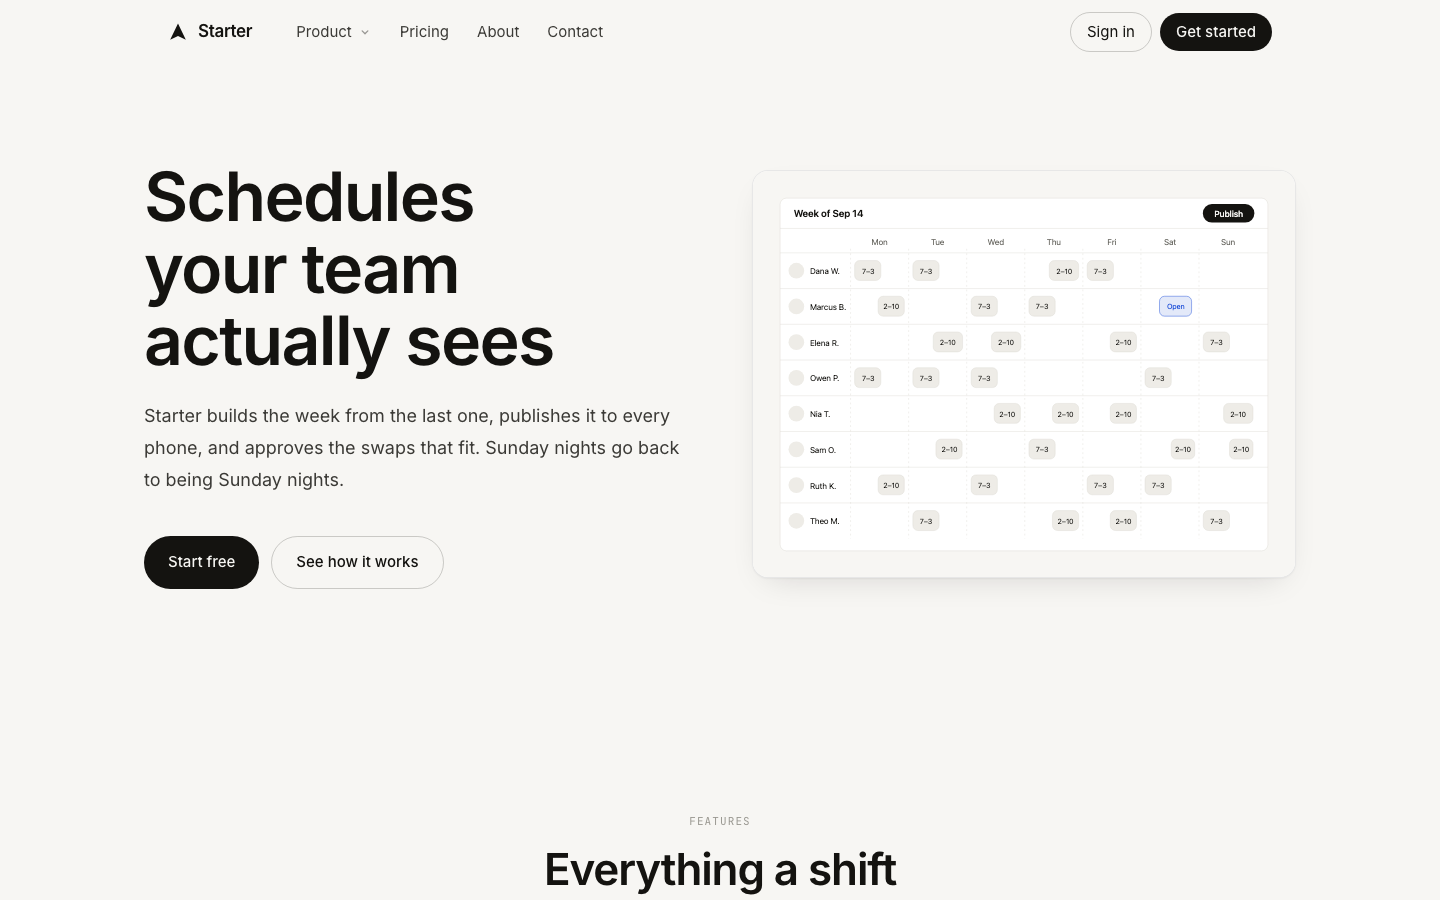
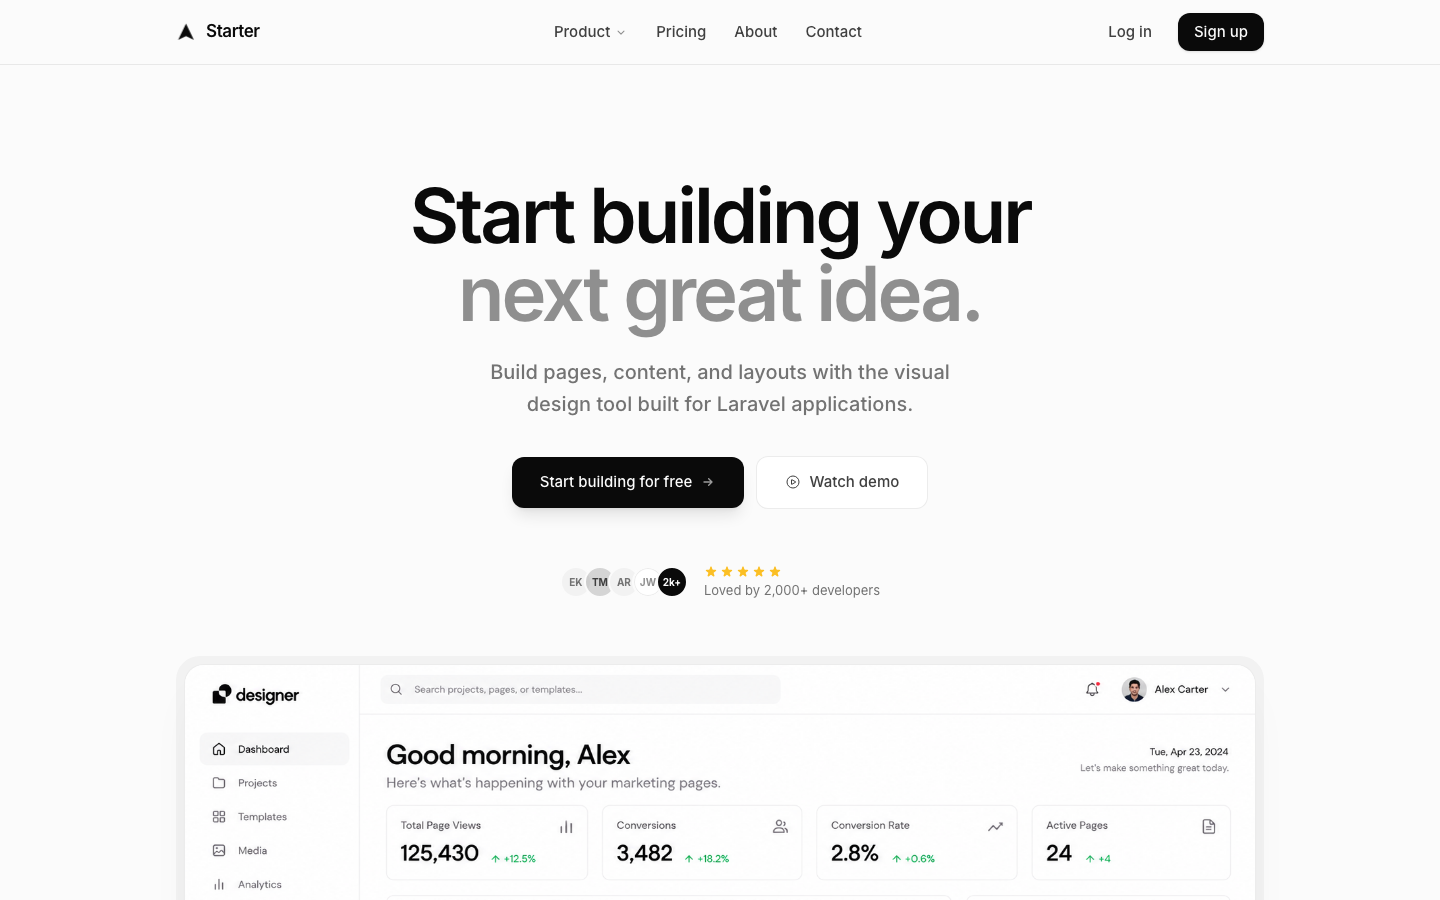
latest

diff --git a/files/public/js/main.js b/files/public/js/main.js
@@ -89,7 +89,7 @@ function mobileMenu() {
     window.matchMedia('(min-width: 64rem)').addEventListener('change', function (e) { if (e.matches) set(false); });
 }
 
-/* The announcement banner (sections/banner.blade.php, above the header in the layout): the dismiss button hides it for this visit. */
+/* The announcement banner (sections/banner.blade.php, wherever it is placed): the dismiss button hides it for this visit. */
 function banners() {
     document.querySelectorAll('[data-banner]').forEach(function (banner) {
         var button = banner.querySelector('[data-banner-dismiss]');

diff --git a/files/resources/views/components/sections/hero-03.blade.php b/files/resources/views/components/sections/hero-03.blade.php
@@ -1,113 +1,123 @@
 @props([
-    'eyebrow' => 'Uptime monitoring',
-    'heading' => 'Find out before your customers do',
-    'text' => 'Vessel checks every endpoint from 14 US cities every 30 seconds, pages whoever is on call, and keeps a status page your customers can trust.',
-    'buttonText' => 'Start monitoring free',
+    'showBadge' => '1',
+    'badgeText' => 'Now with retainers and deposits',
+    'heading' => 'Run the studio, not the spreadsheet',
+    'text' => 'Hollen keeps every project, hour and invoice for a design studio in one place, so Friday is for the work and not the books.',
+    'buttonText' => 'Start free',
     'buttonLink' => '/signup',
-    'linkText' => 'See a live status page',
-    'linkUrl' => '/status',
-    'benefits' => [
-        (object) ['icon' => "<svg viewBox='0 0 24 24' class='size-5' fill='none' stroke='currentColor' stroke-width='1.5' aria-hidden='true'><path stroke-linecap='round' stroke-linejoin='round' d='M12 21a9 9 0 1 0 0-18 9 9 0 0 0 0 18Z'/><path stroke-linecap='round' stroke-linejoin='round' d='M3.6 9h16.8M3.6 15h16.8M12 3a14 14 0 0 1 0 18M12 3a14 14 0 0 0 0 18'/></svg>", 'title' => 'Checks from 14 cities', 'description' => 'HTTP, TCP and heartbeat checks from Denver to Raleigh, every 30 seconds.'],
-        (object) ['icon' => "<svg viewBox='0 0 24 24' class='size-5' fill='none' stroke='currentColor' stroke-width='1.5' aria-hidden='true'><path stroke-linecap='round' stroke-linejoin='round' d='M14.857 17.082a23.848 23.848 0 0 0 5.454-1.31A8.967 8.967 0 0 1 18 9.75V9A6 6 0 0 0 6 9v.75a8.967 8.967 0 0 1-2.312 6.022c1.733.64 3.56 1.085 5.455 1.31m5.714 0a24.255 24.255 0 0 1-5.714 0m5.714 0a3 3 0 1 1-5.714 0'/></svg>", 'title' => 'Pages the right person', 'description' => 'Escalates through the on-call rota by text, phone and chat until someone acknowledges.'],
-        (object) ['icon' => "<svg viewBox='0 0 24 24' class='size-5' fill='none' stroke='currentColor' stroke-width='1.5' aria-hidden='true'><path stroke-linecap='round' stroke-linejoin='round' d='M9 12.75 11.25 15 15 9.75M21 12a9 9 0 1 1-18 0 9 9 0 0 1 18 0Z'/></svg>", 'title' => 'A status page that writes itself', 'description' => 'Incidents open, update and close from your alerts, on your own domain.'],
+    'buttonText2' => 'See a live studio',
+    'buttonLink2' => '/demo',
+    'logosLabel' => 'Used by 1,400 studios',
+    'logos' => [
+        (object) ['name' => 'Upland', 'icon' => "<svg viewBox='0 0 24 24' class='fill-current' aria-hidden='true'><path fill-rule='evenodd' d='M12 3a9 9 0 1 0 0 18 9 9 0 0 0 0-18Zm0 4a5 5 0 1 1 0 10 5 5 0 0 1 0-10Z'/></svg>"],
+        (object) ['name' => 'Verity', 'icon' => "<svg viewBox='0 0 24 24' class='fill-current' aria-hidden='true'><path d='M9.4 20.2 2.6 13.4l2.9-2.9 3.9 3.9L18.5 4.3l2.9 2.9Z'/></svg>"],
+        (object) ['name' => 'Valence', 'icon' => "<svg viewBox='0 0 24 24' aria-hidden='true'><circle cx='12' cy='12' r='3.5' fill='currentColor'/><ellipse cx='12' cy='12' rx='9.5' ry='4' fill='none' stroke='currentColor' stroke-width='1.75' transform='rotate(-30 12 12)'/></svg>"],
+        (object) ['name' => 'Granary', 'icon' => "<svg viewBox='0 0 24 24' class='fill-current' aria-hidden='true'><circle cx='7.5' cy='7.5' r='3.75'/><circle cx='16.5' cy='7.5' r='3.75'/><circle cx='7.5' cy='16.5' r='3.75'/><circle cx='16.5' cy='16.5' r='3.75'/></svg>"],
+        (object) ['name' => 'Rosewood', 'icon' => "<svg viewBox='0 0 24 24' class='fill-current' aria-hidden='true'><path d='M12 3 21 10.5V20a1 1 0 0 1-1 1H4a1 1 0 0 1-1-1v-9.5Z'/></svg>"],
+        (object) ['name' => 'Cinder', 'icon' => "<svg viewBox='0 0 24 24' class='fill-current' aria-hidden='true'><rect x='3' y='9' width='13' height='6' rx='3'/><circle cx='19.5' cy='12' r='2.5'/></svg>"],
+        (object) ['name' => 'Perch', 'icon' => "<svg viewBox='0 0 24 24' class='fill-current' aria-hidden='true'><rect x='5' y='5' width='14' height='14' rx='2.5' transform='rotate(45 12 12)'/></svg>"],
+        (object) ['name' => 'Tallis', 'icon' => "<svg viewBox='0 0 24 24' class='fill-current' aria-hidden='true'><rect x='3' y='10.25' width='18' height='3.5' rx='1.75'/><rect x='3' y='10.25' width='18' height='3.5' rx='1.75' transform='rotate(60 12 12)'/><rect x='3' y='10.25' width='18' height='3.5' rx='1.75' transform='rotate(120 12 12)'/></svg>"],
     ],
-    'stats' => [
-        (object) ['value' => '99.98%', 'label' => 'of checks delivered on schedule'],
-        (object) ['value' => '31 s', 'label' => 'median time to first alert'],
-        (object) ['value' => '2,140', 'label' => 'teams on call with Vessel'],
+    'images' => [
+        (object) ['image' => '/images/blocks/workspace-01.jpg', 'alt' => 'People at desks in a bright studio'],
+        (object) ['image' => '/images/blocks/cover-01.jpg', 'alt' => 'A notebook and pencil on an oak desk'],
+        (object) ['image' => '/images/blocks/portrait-01.jpg', 'alt' => 'A designer at her desk'],
+        (object) ['image' => '/images/blocks/cover-03.jpg', 'alt' => 'White concrete stairs in sunlight'],
+        (object) ['image' => '/images/blocks/workspace-02.jpg', 'alt' => 'Two people at a whiteboard'],
+        (object) ['image' => '/images/blocks/cover-05.jpg', 'alt' => 'Green leaves against a white wall'],
+        (object) ['image' => '/images/blocks/portrait-02.jpg', 'alt' => 'A designer reviewing work at a desk'],
+        (object) ['image' => '/images/blocks/cover-04.jpg', 'alt' => 'Ceramic cups on a shelf'],
     ],
 ])
 <!--
-    Type-led hero with no visual: eyebrow, an oversized left-aligned headline, intro, one primary button and an
-    arrow text link. Beneath, a hairline-divided strip of three benefits (icon tile, title, one line; rows in
-    benefits, bound to collections.features) and a hairline-divided row of three figures (rows in stats, bound to
-    collections.stats). The first figure counts up once when it scrolls into view; the final value is in the markup.
-    Clear the eyebrow, the button text or the link text to hide each.
+    Hero — a centred statement over a drifting strip of wordmarks and a row of photographs. A pill
+    badge with a dot, the headline, the intro, the primary and secondary buttons (both with an
+    up-right arrow). Beneath, the wordmarks drift slowly to the left with the edges faded out, and a
+    row of tall photo tiles drifts the other way, staggered in height and cut off by the bottom of the
+    section. Both rows are doubled by the script for a seamless loop, pause on hover and stand still
+    under reduced motion. Wordmarks come from collections.logos; the tiles are the images repeater.
+    The toggle hides the badge; clear the secondary button text or the strip label to hide them.
 -->
-<section class="px-6 pt-20 pb-12 sm:pt-28 sm:pb-16" data-hero-03>
-    <div class="mx-auto w-full max-w-6xl">
-        @if ($eyebrow)
-        <p class="text-xs font-semibold tracking-[0.2em] text-faint uppercase" data-reveal>{{ $eyebrow }}</p>
+<section class="overflow-hidden pt-20 sm:pt-28" data-hero-03>
+    <div class="mx-auto flex w-full max-w-6xl flex-col items-center px-6 text-center">
+        @if ($showBadge)
+        <p class="reveal-1 inline-flex items-center gap-2 rounded-full border border-line bg-panel px-3.5 py-1.5 text-[13px] font-medium text-ink" data-reveal>
+            <span class="size-1.5 rounded-full bg-ink" aria-hidden="true"></span>
+            {{ $badgeText }}
+        </p>
         @endif
-        <h1 class="reveal-1 mt-5 max-w-4xl text-hero font-semibold tracking-[-0.04em] text-balance text-ink" data-reveal>{{ $heading }}</h1>
-        <p class="reveal-2 mt-6 max-w-[54ch] text-lg/8 font-medium text-pretty text-muted sm:text-xl/8" data-reveal>{{ $text }}</p>
-
-        <div class="reveal-3 mt-9 flex flex-col gap-4 sm:flex-row sm:items-center sm:gap-7" data-reveal>
-            @if ($buttonText)
-            <a href="{{ $buttonLink }}" class="inline-flex w-full items-center justify-center gap-2 rounded-xl bg-ink px-7 py-3.5 text-[15px] font-medium text-canvas shadow-lg shadow-black/10 transition-all duration-200 hover:-translate-y-0.5 hover:opacity-90 hover:shadow-xl hover:shadow-black/15 active:scale-[.98] sm:w-auto">{{ $buttonText }}</a>
-            @endif
-            @if ($linkText)
-            <a href="{{ $linkUrl }}" class="arrow-link inline-flex items-center justify-center gap-1.5 py-2 text-[15px] font-medium text-ink transition-colors duration-200 hover:text-lede sm:justify-start">
-                {{ $linkText }}
-                <svg viewBox="0 0 24 24" class="arrow size-4 opacity-60" fill="none" stroke="currentColor" stroke-width="2" aria-hidden="true"><path stroke-linecap="round" stroke-linejoin="round" d="M13 7l5 5m0 0l-5 5m5-5H6"/></svg>
+        <h1 class="reveal-2 mt-7 max-w-[18ch] text-hero font-semibold tracking-[-0.04em] text-balance text-ink" data-reveal>{{ $heading }}</h1>
+        <p class="reveal-3 mt-6 max-w-[52ch] text-lg/8 font-medium text-pretty text-muted sm:text-xl/8" data-reveal>{{ $text }}</p>
+        <div class="reveal-4 mt-9 flex w-full flex-col gap-3 sm:w-auto sm:flex-row sm:items-center" data-reveal>
+            <a href="{{ $buttonLink }}" class="inline-flex w-full items-center justify-center gap-2 rounded-xl bg-ink px-7 py-3.5 text-[15px] font-medium text-canvas shadow-lg shadow-black/10 transition-all duration-200 hover:-translate-y-0.5 hover:opacity-90 hover:shadow-xl hover:shadow-black/15 active:scale-[.98] sm:w-auto">
+                {{ $buttonText }}
+                <svg viewBox="0 0 16 16" class="size-3.5 shrink-0 fill-current opacity-80" aria-hidden="true"><path fill-rule="evenodd" d="M4.5 3.25a.75.75 0 0 1 .75-.75h7.25a.75.75 0 0 1 .75.75V10.5a.75.75 0 0 1-1.5 0V5.06l-7.22 7.22a.75.75 0 0 1-1.06-1.06L10.69 4H5.25a.75.75 0 0 1-.75-.75Z" clip-rule="evenodd"/></svg>
+            </a>
+            @if ($buttonText2)
+            <a href="{{ $buttonLink2 }}" class="inline-flex w-full items-center justify-center gap-2 rounded-xl border border-line bg-panel px-7 py-3.5 text-[15px] font-medium text-lede transition-colors duration-200 hover:border-line-strong hover:bg-raised active:scale-[.98] sm:w-auto">
+                {{ $buttonText2 }}
+                <svg viewBox="0 0 16 16" class="size-3.5 shrink-0 fill-current opacity-60" aria-hidden="true"><path fill-rule="evenodd" d="M4.5 3.25a.75.75 0 0 1 .75-.75h7.25a.75.75 0 0 1 .75.75V10.5a.75.75 0 0 1-1.5 0V5.06l-7.22 7.22a.75.75 0 0 1-1.06-1.06L10.69 4H5.25a.75.75 0 0 1-.75-.75Z" clip-rule="evenodd"/></svg>
             </a>
             @endif
         </div>
+    </div>
 
-        <!-- Three benefits, divided by hairlines: rules between siblings, none on the outer edges. -->
-        <ul role="list" class="reveal-4 mt-20 grid border-t border-line sm:mt-24 lg:grid-cols-3" data-reveal>
-            @foreach ($benefits as $item)
-            <li class="flex gap-4 border-b border-line py-7 lg:border-b-0 lg:border-l lg:px-8 lg:py-9 lg:[&:nth-child(3n)]:pr-0 lg:[&:nth-child(3n+1)]:border-l-0 lg:[&:nth-child(3n+1)]:pl-0 lg:[&:nth-child(n+4)]:border-t">
-                <div class="flex size-10 shrink-0 items-center justify-center rounded-xl bg-raised text-lede">{!! $item->icon !!}</div>
-                <div>
-                    <h2 class="text-base font-medium text-ink">{{ $item->title }}</h2>
-                    <p class="mt-1.5 text-[14px]/6 text-pretty text-muted">{{ $item->description }}</p>
-                </div>
+    <!-- The wordmark strip: one row drifting left, edges faded to the canvas -->
+    <div class="reveal-5 mt-16 sm:mt-20" data-reveal>
+        @if ($logosLabel)
+        <p class="text-center text-[15px] font-medium text-muted">{{ $logosLabel }}</p>
+        @endif
+        <div class="mt-6 overflow-hidden [mask-image:linear-gradient(to_right,transparent,var(--color-ink)_12%,var(--color-ink)_88%,transparent)]" data-marquee>
+            <ul role="list" class="flex w-max items-center" data-marquee-track data-speed="36">
+                @foreach ($logos as $item)
+                <li class="flex shrink-0 items-center gap-2.5 px-7 text-faint [&_svg]:size-6 [&_svg]:shrink-0">
+                    {!! $item->icon !!}
+                    <span class="whitespace-nowrap text-[17px] font-semibold tracking-tight">{{ $item->name }}</span>
+                </li>
+                @endforeach
+            </ul>
+        </div>
+    </div>
+
+    <!-- The photographs: tall tiles drifting right, staggered, cut off by the section's edge -->
+    <div class="mt-10 h-[15rem] overflow-hidden sm:mt-14 sm:h-[19rem]" data-marquee>
+        <ul role="list" class="flex w-max items-start gap-3 pr-3 sm:gap-4 sm:pr-4" data-marquee-track data-marquee-reverse data-speed="28">
+            @foreach ($images as $tile)
+            <li class="w-[13rem] shrink-0 overflow-hidden rounded-2xl bg-raised sm:w-[17rem] {{ $loop->index % 3 == 1 ? 'mt-10 sm:mt-14' : ($loop->index % 3 == 2 ? 'mt-4 sm:mt-6' : '') }}">
+                <img src="{{ $tile->image }}" alt="{{ $tile->alt }}" width="1600" height="1067" loading="{{ $loop->index < 4 ? 'eager' : 'lazy' }}" class="aspect-[4/5] w-full object-cover">
             </li>
             @endforeach
         </ul>
-
-        <!-- Three figures on the same hairline grid; the first is the signature stat and counts up once. -->
-        <dl class="reveal-5 grid border-t border-line lg:grid-cols-3" data-reveal>
-            @foreach ($stats as $stat)
-            <div class="border-b border-line py-7 lg:border-b-0 lg:border-l lg:px-8 lg:py-9 lg:[&:nth-child(3n)]:pr-0 lg:[&:nth-child(3n+1)]:border-l-0 lg:[&:nth-child(3n+1)]:pl-0 lg:[&:nth-child(n+4)]:border-t">
-                @if ($loop->first)
-                <dd class="text-figure font-semibold tracking-tight text-ink tabular-nums" data-count>{{ $stat->value }}</dd>
-                @else
-                <dd class="text-figure font-semibold tracking-tight text-ink tabular-nums">{{ $stat->value }}</dd>
-                @endif
-                <dt class="mt-2 text-[15px] text-muted">{{ $stat->label }}</dt>
-            </div>
-            @endforeach
-        </dl>
     </div>
 </section>
+<style>
+/* Each doubled row travels half its width and starts over; the photo row runs the same path backwards. */
+[data-hero-03] [data-marquee-track][data-marquee-on] { animation: hero-03-drift var(--marquee-duration, 40s) linear infinite; }
+[data-hero-03] [data-marquee-track][data-marquee-reverse] { animation-direction: reverse; }
+[data-hero-03] [data-marquee]:hover [data-marquee-track] { animation-play-state: paused; }
+@keyframes hero-03-drift { to { translate: -50% 0; } }
+@media (prefers-reduced-motion: reduce) {
+    [data-hero-03] [data-marquee-track] { animation: none; }
+}
+</style>
 <script>
 (function () {
     document.querySelectorAll('[data-hero-03]:not([data-hero-03-ready])').forEach(function (root) {
         root.setAttribute('data-hero-03-ready', '');
-        var reduce = window.matchMedia('(prefers-reduced-motion: reduce)').matches;
-        var el = root.querySelector('[data-count]');
-        if (!el || reduce || !('IntersectionObserver' in window)) return;
-        var text = el.textContent.trim();
-        var match = text.match(/[\d,]*\d(?:\.\d+)?/);
-        if (!match) return;
-        var target = parseFloat(match[0].replace(/,/g, ''));
-        var decimals = (match[0].split('.')[1] || '').length;
-        var grouped = match[0].indexOf(',') > -1;
-        function format(n) {
-            var s = n.toFixed(decimals);
-            if (grouped) s = s.replace(/\B(?=(\d{3})+(?!\d))/g, ',');
-            return text.replace(match[0], s);
-        }
-        function run() {
-            var start = null, duration = 1200;
-            function frame(now) {
-                if (start === null) start = now;
-                var t = Math.min((now - start) / duration, 1);
-                var eased = 1 - Math.pow(1 - t, 4);
-                el.textContent = format(target * eased);
-                if (t < 1) requestAnimationFrame(frame); else el.textContent = text;
-            }
-            requestAnimationFrame(frame);
-        }
-        var observer = new IntersectionObserver(function (entries) {
-            if (!entries.some(function (e) { return e.isIntersecting; })) return;
-            observer.disconnect();
-            el.textContent = format(0);
-            setTimeout(run, 350);
-        }, { threshold: 0.4 });
-        observer.observe(el);
+        if (window.matchMedia('(prefers-reduced-motion: reduce)').matches) return;
+        /* Each row is doubled so the loop is seamless; the speed is pixels a second from data-speed. */
+        root.querySelectorAll('[data-marquee-track]').forEach(function (track) {
+            if (!track.children.length) return;
+            var width = track.scrollWidth;
+            var speed = parseFloat(track.getAttribute('data-speed')) || 36;
+            Array.prototype.slice.call(track.children).forEach(function (item) {
+                var copy = item.cloneNode(true);
+                copy.setAttribute('aria-hidden', 'true');
+                track.appendChild(copy);
+            });
+            track.style.setProperty('--marquee-duration', Math.max(20, Math.round(width / speed)) + 's');
+            track.setAttribute('data-marquee-on', '');
+        });
     });
 })();
 </script>

diff --git a/files/resources/views/components/nav.blade.php b/files/resources/views/components/nav.blade.php
@@ -9,9 +9,9 @@
 <!--
     The site-wide header — the mark and brand on the left, the links centered,
     Log in and the primary action on the right. It is sticky at the top of the
-    viewport; the announcement bar is its own section (sections/banner.blade.php),
-    placed above it in the layout, so it scrolls away and the bar stays put.
-    Every page's opening section starts right under it.
+    viewport. An announcement bar (sections/banner.blade.php) can be placed
+    above it in the layout; it scrolls away and the header stays put. Every
+    page's opening section starts right under it.
 
     Links come from nav_links in resources/data/site.json. Nest links under an
     item and it becomes a dropdown (tested with count(): on the canvas an empty

diff --git a/files/resources/views/components/layouts/main.blade.php b/files/resources/views/components/layouts/main.blade.php
@@ -24,9 +24,7 @@
 </head>
 <body class="min-h-dvh bg-canvas font-sans text-ink antialiased">
 
-    <!-- The announcement bar (components/sections/banner.blade.php), then the sticky site-wide nav. Links live in resources/data/site.json (nav_links); the markup is components/nav.blade.php. -->
-    <x-sections.banner />
-
+    <!-- The sticky site-wide nav. Links live in resources/data/site.json (nav_links); the markup is components/nav.blade.php. -->
     <x-nav :links="$site->nav_links"/>
 
     <!-- The header sits in the flow above this; each page's opening section carries its own top padding. -->
